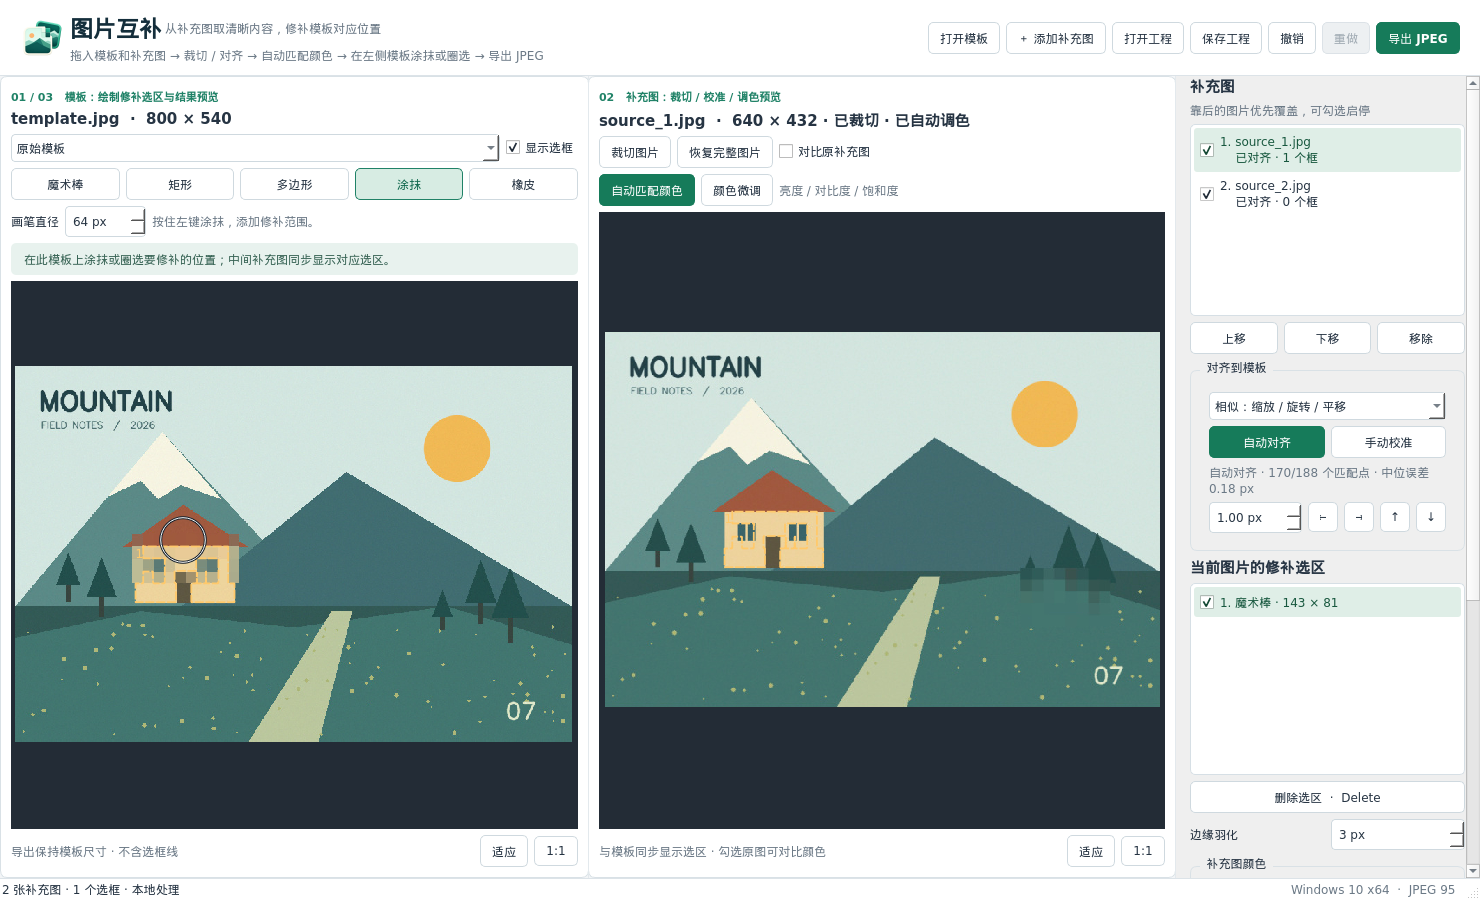
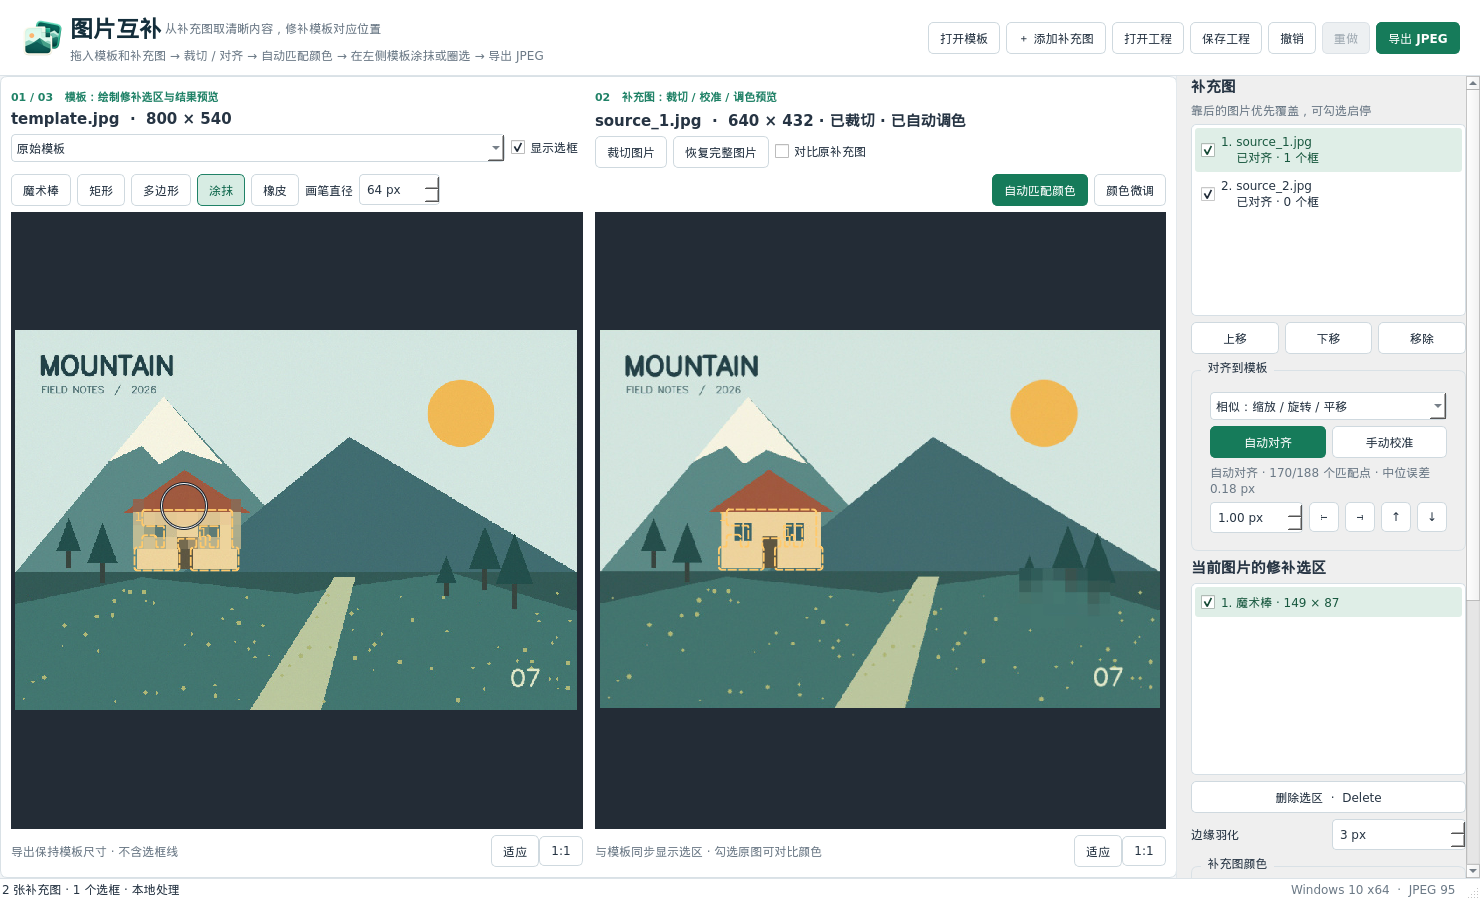
Add wand expansion and compact equal-size image workspace

diff --git a/mosaic_repair/app.py b/mosaic_repair/app.py
@@ -14,7 +14,7 @@ from PySide6.QtWidgets import (
     QApplication, QMainWindow, QWidget, QVBoxLayout, QHBoxLayout, QLabel,
     QPushButton, QListWidget, QListWidgetItem, QComboBox, QSpinBox, QCheckBox,
     QDoubleSpinBox, QSplitter, QFileDialog, QMessageBox, QProgressBar, QFrame,
-    QAbstractItemView, QGroupBox, QScrollArea, QLayout, QSizePolicy,
+    QAbstractItemView, QGroupBox, QScrollArea, QLayout, QSizePolicy, QGridLayout,
 )
 
 from .core import (RepairError, MODES, read_image, auto_align, manual_align,
@@ -305,12 +305,18 @@ class MainWindow(QMainWindow):
         self.side_scroll.setWidget(sidebar)
         self.side_scroll.setMinimumWidth(275)
         self.side_scroll.setMaximumWidth(345)
-        self.splitter.addWidget(self.side_scroll)
-
+        self.image_workspace = QFrame()
+        self.image_workspace.setObjectName("panel")
+        images = QGridLayout(self.image_workspace)
+        images.setContentsMargins(10,12,10,10)
+        images.setHorizontalSpacing(12)
+        images.setVerticalSpacing(6)
+        images.setColumnStretch(0,1)
+        images.setColumnStretch(1,1)
+        images.setRowStretch(2,1)
         self.source_panel = QFrame()
-        self.source_panel.setObjectName("panel")
         source_layout = QVBoxLayout(self.source_panel)
-        source_layout.setContentsMargins(10, 12, 10, 10)
+        source_layout.setContentsMargins(0,0,0,0)
         source_layout.addWidget(self.label("02   补充图：裁切 / 校准 / 调色预览", "step"))
         self.source_title = ElidedLabel("请添加补充图")
         self.source_title.setObjectName("panelTitle")
@@ -319,6 +325,7 @@ class MainWindow(QMainWindow):
         row = QHBoxLayout()
         self.crop_tool = self.button("裁切图片", lambda: self.set_tool("crop"))
         self.crop_tool.setCheckable(True)
+        self.crop_tool.setToolTip("在补充图上拖出需要保留的范围，再点击应用裁切；不直接添加修补选区。")
         self.reset_crop_button = self.button("恢复完整图片", self.reset_crop)
         for button in (self.crop_tool, self.reset_crop_button):
             row.addWidget(button)
@@ -327,34 +334,35 @@ class MainWindow(QMainWindow):
         row.addWidget(self.source_original)
         row.addStretch()
         source_layout.addLayout(row)
-        row = QHBoxLayout()
+        self.color_tools = QWidget()
+        self.color_tools.setToolTip("自动匹配补充图颜色，或点击颜色微调打开右侧设置。")
+        row = QHBoxLayout(self.color_tools)
+        row.setContentsMargins(0,0,0,0)
         self.quick_match_button = self.button("自动匹配颜色",self.match_colors,True)
+        self.quick_match_button.setToolTip("对齐后匹配补充图的亮度、对比度、饱和度和偏色。")
         row.addWidget(self.quick_match_button)
         row.addWidget(self.button("颜色微调",lambda:self.side_scroll.ensureWidgetVisible(self.color_group)))
-        row.addWidget(self.label("亮度 / 对比度 / 饱和度","muted"),1)
-        source_layout.addLayout(row)
         self.crop_tools = QWidget()
         crop_row = QHBoxLayout(self.crop_tools)
         crop_row.setContentsMargins(0, 0, 0, 0)
         self.apply_crop_button = self.button("应用裁切", self.apply_crop, True)
         crop_row.addWidget(self.apply_crop_button)
         crop_row.addWidget(self.button("取消", lambda: self.set_tool(self.selection_mode)))
-        crop_row.addWidget(self.label("拖出需要保留的范围", "muted"))
-        source_layout.addWidget(self.crop_tools)
+        self.crop_tools.setToolTip("在补充图上拖出需要保留的范围，再点击应用裁切。")
         self.source_canvas = ImageCanvas()
         self.source_canvas.rectangle_drawn.connect(self.add_rectangle)
         self.source_canvas.files_dropped.connect(self.add_source_paths)
         self.source_canvas.empty_text = "将一张或多张补充图拖到这里"
         self.source_canvas.point_picked.connect(self.pick_source_point)
         self.source_canvas.region_picked.connect(lambda i: self.region_list.setCurrentRow(i))
-        source_layout.addWidget(self.source_canvas, 1)
-        source_layout.addLayout(self.canvas_footer(self.source_canvas, "与模板同步显示选区 · 勾选原图可对比颜色"))
-        self.splitter.addWidget(self.source_panel)
+        source_layout.addStretch()
+        images.addWidget(self.source_panel,0,1)
+        images.addWidget(self.source_canvas,2,1)
+        images.addLayout(self.canvas_footer(self.source_canvas, "与模板同步显示选区 · 勾选原图可对比颜色"),3,1)
 
         result_panel = QFrame()
-        result_panel.setObjectName("panel")
         result_layout = QVBoxLayout(result_panel)
-        result_layout.setContentsMargins(10, 12, 10, 10)
+        result_layout.setContentsMargins(0,0,0,0)
         result_layout.addWidget(self.label("01 / 03   模板：绘制修补选区与结果预览", "step"))
         self.base_title = ElidedLabel("请先打开模板")
         self.base_title.setObjectName("panelTitle")
@@ -370,17 +378,26 @@ class MainWindow(QMainWindow):
         self.show_guides.toggled.connect(self.update_guides)
         row.addWidget(self.show_guides)
         result_layout.addLayout(row)
-        row = QHBoxLayout()
+        result_layout.addStretch()
+        images.addWidget(result_panel,0,0)
+        self.selection_toolbar = QWidget()
+        row = QHBoxLayout(self.selection_toolbar)
+        row.setContentsMargins(0,0,0,0)
+        row.setSpacing(6)
         self.selection_buttons = {}
+        descriptions = {
+            "wand":"在左侧模板单击，添加颜色相近的连通区域；按原始模板取色，可重复点击添加。容差控制颜色范围，扩边按模板像素扩大选区；用橡皮修边，Ctrl+Z 撤销。",
+            "select":"在左侧模板按住左键拖出矩形，使用当前补充图修补框内区域。",
+            "polygon":"在左侧模板逐点单击，双击或 Enter 完成多边形；右键撤回顶点，Esc 取消。",
+            "brush":"在左侧模板按住左键涂抹，添加修补范围；圆形鼠标表示画笔直径，按模板像素计算。",
+            "eraser":"在左侧模板按住左键擦除当前补充图的修补范围；圆形鼠标表示橡皮直径，按模板像素计算。"}
         for mode,name in (("wand","魔术棒"),("select","矩形"),("polygon","多边形"),("brush","涂抹"),("eraser","橡皮")):
             button = self.button(name,lambda checked=False,m=mode:self.set_tool(m))
             button.setCheckable(True)
+            button.setToolTip(descriptions[mode])
             row.addWidget(button)
             self.selection_buttons[mode] = button
         self.select_tool = self.selection_buttons["select"]
-        self.selection_buttons["wand"].setToolTip("点击模板，添加颜色相近的连通区域；按原始模板取色。")
-        result_layout.addLayout(row)
-        row = QHBoxLayout()
         self.brush_controls = QWidget()
         brush_row = QHBoxLayout(self.brush_controls)
         brush_row.setContentsMargins(0,0,0,0)
@@ -403,12 +420,19 @@ class MainWindow(QMainWindow):
         self.wand_tolerance_spin.valueChanged.connect(lambda value:self.save_tool_setting("tools/wand_tolerance",value))
         self.wand_tolerance_spin.setToolTip("0 仅选相同颜色；数值越大，允许的颜色差异越大。调整后再次点击取选区。")
         wand_row.addWidget(self.wand_tolerance_spin)
+        wand_row.addWidget(self.label("扩边"))
+        self.wand_expand_spin = QSpinBox()
+        self.wand_expand_spin.setRange(0,500)
+        self.wand_expand_spin.setSuffix(" px")
+        self.wand_expand_spin.setValue(self.read_tool_setting("tools/wand_expand",0,0,500))
+        self.wand_expand_spin.valueChanged.connect(lambda value:self.save_tool_setting("tools/wand_expand",value))
+        self.wand_expand_spin.setToolTip("在颜色选区四周扩出指定的模板像素；0 不扩边。修改后下次点击生效，自动记忆设置。")
+        wand_row.addWidget(self.wand_expand_spin)
         row.addWidget(self.wand_controls)
-        self.tool_help = self.label("", "muted", True)
-        row.addWidget(self.tool_help,1)
-        result_layout.addLayout(row)
-        self.result_hint = self.label("先对齐补充图，再框选清晰区域。", "hint", True)
-        result_layout.addWidget(self.result_hint)
+        row.addStretch()
+        row.addWidget(self.color_tools)
+        row.addWidget(self.crop_tools)
+        images.addWidget(self.selection_toolbar,1,0,1,2)
         self.result_canvas = ImageCanvas()
         self.result_canvas.point_picked.connect(self.pick_target_point)
         self.result_canvas.rectangle_drawn.connect(self.add_template_rectangle)
@@ -416,12 +440,11 @@ class MainWindow(QMainWindow):
         self.result_canvas.wand_picked.connect(self.add_wand_selection)
         self.result_canvas.files_dropped.connect(self.drop_template)
         self.result_canvas.empty_text = "将模板图片拖到这里"
-        result_layout.addWidget(self.result_canvas, 1)
-        result_layout.addLayout(self.canvas_footer(self.result_canvas, "导出保持模板尺寸 · 不含选框线"))
-        self.splitter.addWidget(result_panel)
-        self.splitter.insertWidget(0,result_panel)
+        images.addWidget(self.result_canvas,2,0)
+        images.addLayout(self.canvas_footer(self.result_canvas, "导出保持模板尺寸 · 不含选框线"),3,0)
+        self.splitter.addWidget(self.image_workspace)
         self.splitter.addWidget(self.side_scroll)
-        self.splitter.setSizes([580,580,300])
+        self.splitter.setSizes([1160,300])
         root.addWidget(self.splitter, 1)
         self.status_label = QLabel("就绪 · 图片仅在本地处理")
         self.statusBar().addWidget(self.status_label, 1)
@@ -434,7 +457,9 @@ class MainWindow(QMainWindow):
 
     def canvas_footer(self, canvas, hint):
         row = QHBoxLayout()
-        row.addWidget(self.label(hint, "muted"), 1)
+        hint_label = ElidedLabel(hint)
+        hint_label.setObjectName("muted")
+        row.addWidget(hint_label, 1)
         row.addWidget(self.button("适应", canvas.fit_image))
         row.addWidget(self.button("1:1", canvas.actual_size))
         return row
@@ -796,8 +821,9 @@ class MainWindow(QMainWindow):
             return
         base = self.document.base
         tolerance = self.wand_tolerance_spin.value()
+        expansion = self.wand_expand_spin.value()
         self.start_task("正在选择颜色相近的连通区域…",
-                        lambda: Region.from_mask(magic_wand_mask(base,point,tolerance)),
+                        lambda: Region.from_mask(magic_wand_mask(base,point,tolerance,expansion)),
                         self.commit_template_region)
 
     def commit_template_region(self,region):
@@ -995,11 +1021,13 @@ class MainWindow(QMainWindow):
         self.nudge_tools.setVisible(source is not None and source.matrix is not None and not self.manual)
         is_crop = self.source_canvas.mode == "crop"
         self.crop_tools.setVisible(is_crop)
+        self.color_tools.setVisible(not is_crop)
         self.apply_crop_button.setEnabled(self.pending_crop is not None)
         can_select = source is not None and source.matrix is not None and not self.manual and not is_crop
         for mode,button in self.selection_buttons.items():
             button.setChecked(mode==self.selection_mode and can_select)
             button.setEnabled(can_select)
+        self.selection_toolbar.setToolTip(self.selection_buttons[self.selection_mode].toolTip())
         self.brush_controls.setVisible(self.selection_mode in ("brush","eraser"))
         self.brush_spin.setEnabled(can_select)
         size_mode = self.selection_mode if self.selection_mode in self.tool_sizes else "brush"
@@ -1010,10 +1038,7 @@ class MainWindow(QMainWindow):
         self.result_canvas.set_brush_size(self.tool_sizes[size_mode])
         self.wand_controls.setVisible(self.selection_mode=="wand")
         self.wand_tolerance_spin.setEnabled(can_select)
-        help_text = {"brush":"按住左键涂抹，添加修补范围。", "eraser":"按住左键擦除，减少修补范围。",
-                     "wand":"单击添加连通选区；容差越大，颜色范围越宽。",
-                     "polygon":"单击加点，双击或 Enter 完成。", "select":"按住左键拖出矩形。"}
-        self.tool_help.setText(help_text[self.selection_mode])
+        self.wand_expand_spin.setEnabled(can_select)
         self.crop_tool.setChecked(is_crop)
         self.result_canvas.set_mode("point" if self.manual else (self.selection_mode if can_select else "pan"))
         self.preview_combo.setEnabled(not self.manual)
@@ -1035,16 +1060,6 @@ class MainWindow(QMainWindow):
             self.setWindowTitle(f"{'* ' if self.dirty else ''}{Path(self.project_path).name if self.project_path else document.base_name} — 图片互补")
         else:
             self.base_title.setText("请先打开模板")
-        if self.manual:
-            self.result_hint.setText("手动校准：在中间补充图点一下 → 左侧原模板对应位置点一下，重复后应用校准。")
-        elif source and source.matrix is None:
-            self.result_hint.setText("当前补充图尚未对齐；可先裁切，再自动对齐或手动校准。")
-        elif can_select and self.selection_mode=="wand":
-            self.result_hint.setText("魔术棒按原始模板取色：点击选中相近颜色的连通区域，可重复点击添加；用橡皮修边，Ctrl+Z 撤销。")
-        elif self.preview_combo.currentIndex() == 2:
-            self.result_hint.setText("对齐检查：当前补充图以 50% 透明度叠加；重影明显时请校准或微调。")
-        else:
-            self.result_hint.setText("在此模板上涂抹或圈选要修补的位置；中间补充图同步显示对应选区。")
         self.update_manual_info()
         self.show_result()
         if schedule and document:

diff --git a/mosaic_repair/widgets.py b/mosaic_repair/widgets.py
@@ -5,7 +5,7 @@ import math
 from pathlib import Path
 import numpy as np
 from PySide6.QtCore import Qt, QRectF, QPointF, Signal, QEvent
-from PySide6.QtGui import QColor, QImage, QPixmap, QPen, QBrush, QPainter, QPolygonF, QPainterPath
+from PySide6.QtGui import QColor, QImage, QPixmap, QPen, QBrush, QPainter, QPolygonF, QPainterPath, QCursor
 from PySide6.QtWidgets import QGraphicsView, QGraphicsScene, QGraphicsItem, QLabel, QSizePolicy
 
 
@@ -59,11 +59,36 @@ class ImageCanvas(QGraphicsView):
         self.auto_fit = True
         self.brush_size = 24
         self.hover_position = None
+        self.wand_cursor = self.make_wand_cursor()
         self.stroke = []
         self.polygon_points = []
         self.empty_text = "拖入图片，或使用顶部按钮打开"
         self.horizontalScrollBar().valueChanged.connect(self.update_brush_cursor)
         self.verticalScrollBar().valueChanged.connect(self.update_brush_cursor)
+
+    @staticmethod
+    def make_wand_cursor():
+        pixmap = QPixmap(32,32)
+        pixmap.fill(Qt.GlobalColor.transparent)
+        painter = QPainter(pixmap)
+        painter.setRenderHint(QPainter.RenderHint.Antialiasing)
+        pen = QPen(QColor("#17232d"),6)
+        pen.setCapStyle(Qt.PenCapStyle.RoundCap)
+        painter.setPen(pen)
+        painter.drawLine(QPointF(10,10),QPointF(26,26))
+        pen.setColor(QColor("#ffffff"))
+        pen.setWidthF(3)
+        painter.setPen(pen)
+        painter.drawLine(QPointF(10,10),QPointF(26,26))
+        painter.setPen(QPen(QColor("#17232d"),1.2))
+        painter.setBrush(QColor("#ffe38a"))
+        painter.drawPolygon(QPolygonF([QPointF(x,y) for x,y in
+            ((7,1),(9,5),(13,7),(9,9),(7,13),(5,9),(1,7),(5,5))]))
+        painter.setPen(QPen(QColor("#17232d"),1.2))
+        painter.drawLine(QPointF(21,1),QPointF(21,7))
+        painter.drawLine(QPointF(18,4),QPointF(24,4))
+        painter.end()
+        return QCursor(pixmap,7,7)
 
     def set_brush_size(self, size):
         self.brush_size = size
@@ -84,6 +109,8 @@ class ImageCanvas(QGraphicsView):
             shape = Qt.CursorShape.ClosedHandCursor
         elif self.brush_cursor_rect() is not None:
             shape = Qt.CursorShape.BlankCursor
+        elif self.mode=="wand":
+            shape = self.wand_cursor
         elif self.mode in ("select","crop","point","brush","eraser","polygon","wand"):
             shape = Qt.CursorShape.CrossCursor
         else:

diff --git a/mosaic_repair/selections.py b/mosaic_repair/selections.py
@@ -24,8 +24,8 @@ def read_region_mask(region):
         raise RepairError("工程魔法棒选区数据无效。") from exc
 
 
-def magic_wand_mask(image, point, tolerance=32):
-    """Select four-connected visible pixels within RGB tolerance of the seed."""
+def magic_wand_mask(image, point, tolerance=32, expansion=0):
+    """Select a connected color region, then optionally expand in template pixels."""
     h, w = image.shape[:2]
     point = np.asarray(point, dtype=float)
     if (point.shape != (2,) or not np.isfinite(point).all()
@@ -33,6 +33,8 @@ def magic_wand_mask(image, point, tolerance=32):
         raise RepairError("请在模板图片内点击魔法棒选区。")
     if type(tolerance) is not int or not 0 <= tolerance <= 255:
         raise RepairError("魔法棒容差需在 0–255 之间。")
+    if type(expansion) is not int or not 0 <= expansion <= 500:
+        raise RepairError("魔术棒扩边需在 0–500 像素之间。")
     seed = (int(point[0]), int(point[1]))
     if image[seed[1], seed[0], 3] == 0:
         raise RepairError("点击处完全透明，请选择可见的模板区域。")
@@ -43,7 +45,17 @@ def magic_wand_mask(image, point, tolerance=32):
     delta = (tolerance,) * 3
     cv2.floodFill(np.ascontiguousarray(image[:, :, :3]), flood, seed, 0,
                  loDiff=delta, upDiff=delta, flags=flags)
-    return np.uint8(flood[1:-1, 1:-1] == 255) * 255
+    selection = np.uint8(flood[1:-1, 1:-1] == 255) * 255
+    if expansion:
+        # Restrict the distance calculation to the selected bounds plus the margin.
+        x,y,rw,rh = cv2.boundingRect(selection)
+        x0,y0 = max(0,x-expansion),max(0,y-expansion)
+        x1,y1 = min(w,x+rw+expansion),min(h,y+rh+expansion)
+        local = selection[y0:y1,x0:x1]
+        distance = cv2.distanceTransform(cv2.bitwise_not(local),cv2.DIST_L2,cv2.DIST_MASK_PRECISE)
+        local[:] = np.uint8(distance<=expansion) * 255
+        selection[image[:,:,3]==0] = 0
+    return selection
 
 
 def paint_region(mask,region,offset=(0,0)):

diff --git a/README.md b/README.md
@@ -73,14 +73,15 @@ dist/
 ### 自由选区与涂抹
 
 - **涂抹**：在左侧按住左键拖动，画笔直径按模板像素计算；每次松开鼠标保存为一个独立笔画。
-- **魔术棒**：先对齐并选中补充图，切换“魔术棒”，在左侧模板单击，添加与点击处颜色相近且上下左右连通的区域。颜色容差可设为 0–255（默认 32）；0 只选相同颜色，值越大允许的颜色差异越大。容差以点击像素为基准、分别比较 RGB 三个通道，调整容差后再次点击生效。始终按原始模板取色，不受修补结果、调色或叠加预览影响；完全透明像素不参与选择。同色但不连通的区域需分别点击；可连续点击添加选区，再用橡皮修边。内部未选中的空洞会保留，每次点击均可独立撤销、删除或启停。
+- **魔术棒**：先对齐并选中补充图，切换“魔术棒”，在左侧模板单击，添加与点击处颜色相近且上下左右连通的区域。颜色容差可设为 0–255（默认 32）；0 只选相同颜色，值越大允许的颜色差异越大。容差以点击像素为基准、分别比较 RGB 三个通道。**扩边**可设为 0–500 px（默认 0），在颜色选区基础上按模板原始像素向四周扩大；例如 3 px 扩出 3 个模板像素，0 不扩边。调整容差或扩边后再次点击生效。始终按原始模板取色，不受修补结果、调色或叠加预览影响；完全透明像素不参与选择。同色但不连通的区域需分别点击；可连续点击添加选区，再用橡皮修边。未扩边时保留内部空洞；扩边也会向空洞内扩展，较小空洞可能被覆盖。每次点击均可独立撤销、删除或启停。
 - **多边形**：逐点单击勾出自由轮廓，双击或按 Enter 完成；完成前右键撤回一个顶点，Esc 取消。
 - **矩形**：在左侧拖出矩形范围。
 - **橡皮**：擦去当前补充图已经选择的范围，露出原模板或优先级较低的补充图。橡皮笔画也可单独删除、启停和撤销。
 - 右侧选区列表按绘制顺序应用。默认合并同一补充图的选区，后画的橡皮会减去已选范围；之后仍可继续涂抹补回。
 - “显示选框”控制两张图上的辅助轮廓，辅助线不会写进导出图片。
-- **自动记忆工具设置**：魔术棒颜色容差、涂抹画笔直径和橡皮直径在修改时自动保存到本机，下次启动恢复，不需要手动保存工程。画笔和橡皮分别记忆，切换工具时自动显示各自上次使用的大小。
+- **自动记忆工具设置**：魔术棒颜色容差及扩边、涂抹画笔直径和橡皮直径在修改时自动保存到本机，下次启动恢复，不需要手动保存工程。画笔和橡皮分别记忆，切换工具时自动显示各自上次使用的大小。
 - **圆形范围提示**：使用涂抹或橡皮时，鼠标在模板内显示对应直径的圆形轮廓，随图片缩放同步变化；离开图片、切换其他工具或中键平移时隐藏。轮廓只用于操作提示，不写入图片或导出结果。
+- **工具栏与画布**：魔术棒、矩形、多边形、涂抹、橡皮及当前工具设置排在同一行，使用说明悬停在工具框时显示。魔术棒使用带星形尖端的专用鼠标指针，星形中心为点击位置。模板与补充图的画布等宽等高，上下对齐，缩放窗口或切换裁切模式时同步调整。
 
 含魔术棒选区的工程保存为 v3 格式，保留精确像素选区（含空洞），需要本版程序打开；没有魔术棒选区时仍保存为 v2。新版可继续读取 v1 / v2 工程。魔术棒按颜色选择，复杂照片或颜色差异明显的马赛克可能需要多次点击或配合涂抹。
 

diff --git a/TEST_REPORT.md b/TEST_REPORT.md
@@ -1,5 +1,14 @@
 # v0.2 验证记录
 
+## 魔术棒扩边与画布布局验证（2026-10-18）
+
+- 新增 0–500 px 扩边（默认 0），先选择连通颜色区域，再按模板原始像素距离向四周扩展。扩边裁止于图像边界，排除完全透明像素；扩边值自动保存到本机，实际选区像素随工程保存。
+- 魔术棒使用自绘鼠标指针，星形中心为点击热点；涂抹 / 橡皮继续使用圆形范围提示。工具按钮和容差 / 扩边 / 直径设置共用一行，工具说明改为悬停提示，移除原来独占行的说明。
+- 两张图片共用等宽列与同一画布行，统一顶部、底部和高度；布局宽度为奇数时允许 1 个屏幕像素的取整差。已在 1080×700、1480×900、1800×1000 以及五种选择工具 / 裁切模式下验证。截图更新至 `docs/magic-wand.png` 和 `docs/brush-cursor.png`。
+- 调色按钮和裁切确认控件并入同一工具栏，互相切换，移除模板顶部由补充图额外控件撑出的空白行；两张画布在 1480×900 窗口均增加 38 像素高度。相关 GUI 布局、裁切、调色和鼠标操作 8 项复测通过。
+- 12 项新增测试覆盖扩边距离 / 0 和最大值 / 边界截断 / 空洞 / 透明度、非法参数、实际鼠标修补扩边像素、撤销 / 重做与工程往返、魔术棒指针、单行工具设置、实际悬停提示与等大画布；既有工具设置重开测试增加扩边值检查。
+- 全套本地复测 **85 项通过、2 项 Windows 专属测试跳过，耗时约 26 秒**。本次功能尚未重新构建 Windows EXE。
+
 ## 工具设置记忆与鼠标范围验证（2026-10-17）
 
 - 总步骤说明移入页头，放在应用标题与副标题下方；检查了 1480×900、1080×700 两种窗口，文字可换行，操作按钮保持可见。
